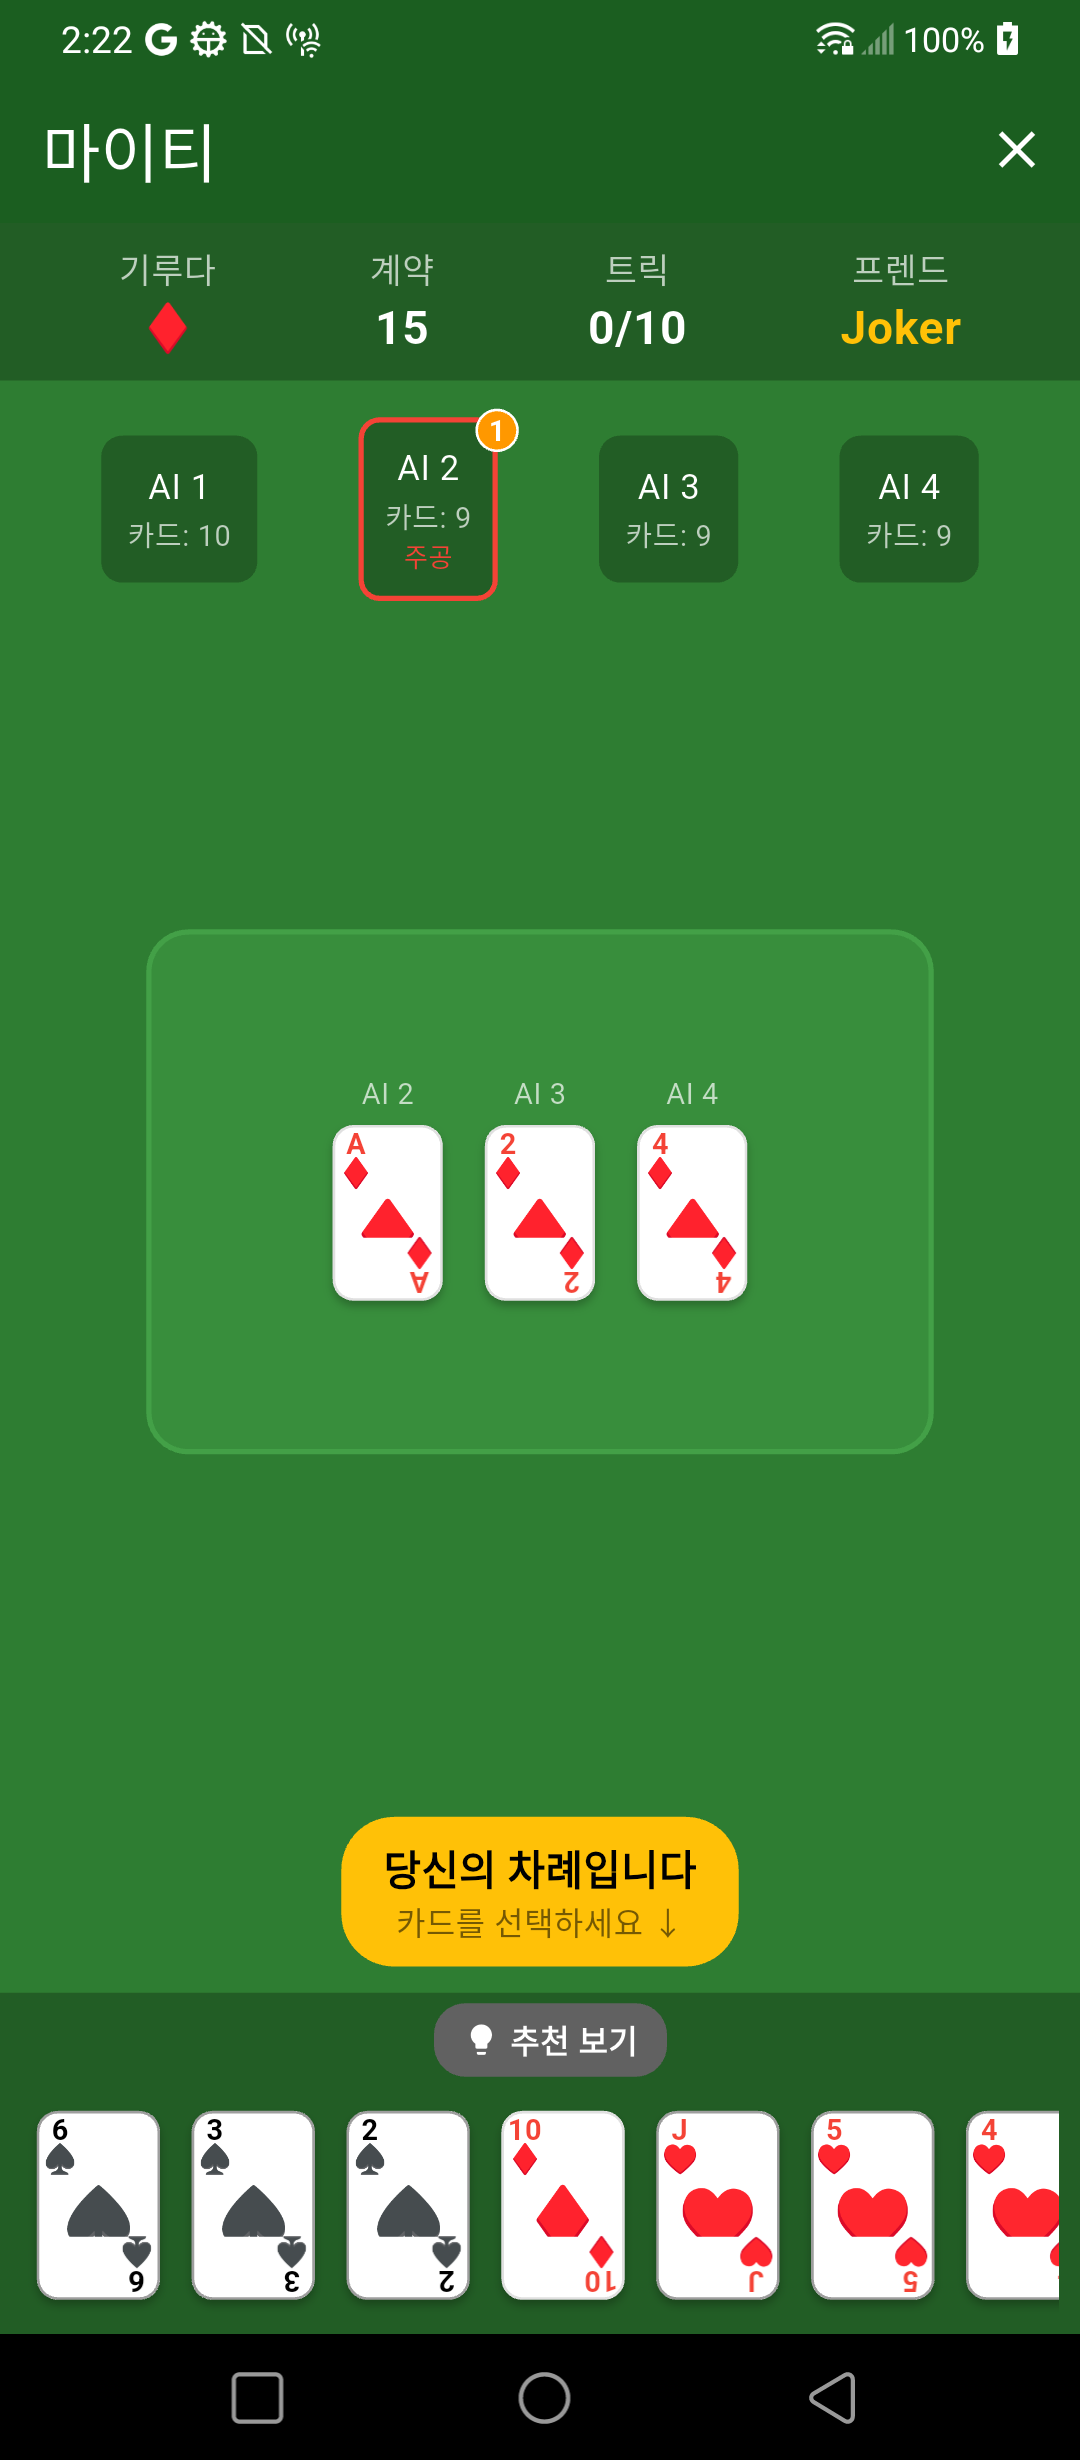
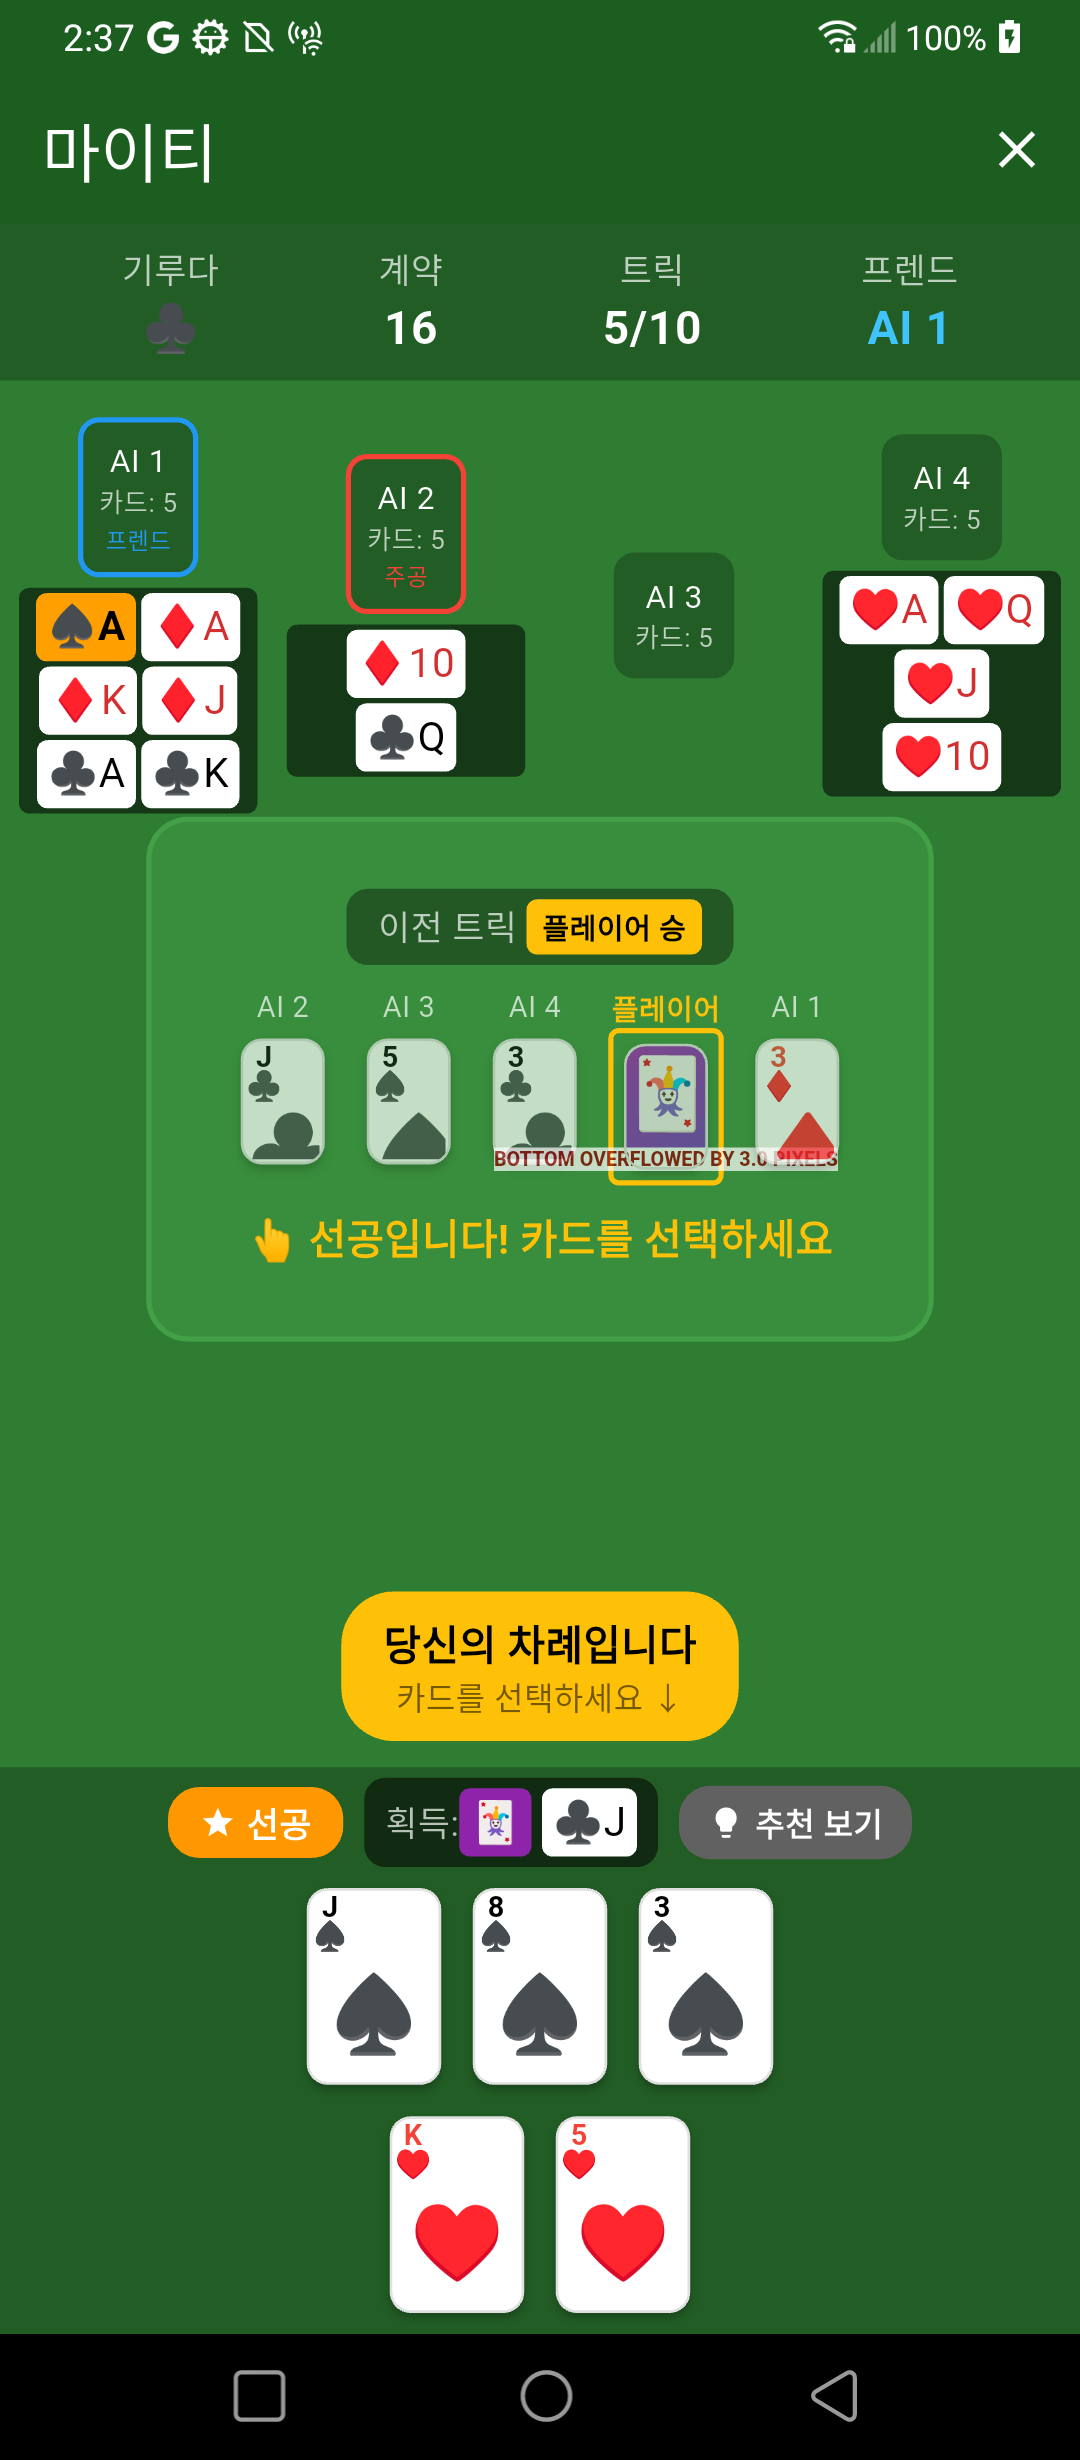
Fix overflow and reduce tiny card size
- Reduce tiny card font size from 14 to 11 for better fit
- Reduce padding on tiny cards (4->3, 2->1)
- Reduce previous trick card size (40x56 -> 36x50)
- Reduce spacing and font sizes in previous trick display
- Fix "BOTTOM OVERFLOWED" error in previous trick area

🤖 Generated with [Claude Code](https://claude.com/claude-code)

diff --git a/lib/screens/game_screen.dart b/lib/screens/game_screen.dart
@@ -1378,12 +1378,12 @@ class _GameScreenState extends State<GameScreen> {
 
     if (card.isJoker) {
       return Container(
-        padding: const EdgeInsets.symmetric(horizontal: 4, vertical: 2),
+        padding: const EdgeInsets.symmetric(horizontal: 3, vertical: 1),
         decoration: BoxDecoration(
           color: Colors.purple[600],
-          borderRadius: BorderRadius.circular(4),
+          borderRadius: BorderRadius.circular(3),
         ),
-        child: const Text('🃏', style: TextStyle(fontSize: 14)),
+        child: const Text('🃏', style: TextStyle(fontSize: 11)),
       );
     }
 
@@ -1411,16 +1411,16 @@ class _GameScreenState extends State<GameScreen> {
     }
 
     return Container(
-      padding: const EdgeInsets.symmetric(horizontal: 4, vertical: 2),
+      padding: const EdgeInsets.symmetric(horizontal: 3, vertical: 1),
       decoration: BoxDecoration(
         color: isMighty ? Colors.amber[700] : Colors.white,
-        borderRadius: BorderRadius.circular(4),
+        borderRadius: BorderRadius.circular(3),
       ),
       child: Text(
         '$suitSymbol$rank',
         style: TextStyle(
           color: isRed ? Colors.red[700] : Colors.black,
-          fontSize: 14,
+          fontSize: 11,
           fontWeight: isMighty ? FontWeight.bold : FontWeight.normal,
         ),
       ),
@@ -1476,7 +1476,7 @@ class _GameScreenState extends State<GameScreen> {
               ),
               // 이전 트릭 카드들
               Wrap(
-                spacing: 8,
+                spacing: 4,
                 children: [
                   for (int i = 0; i < lastTrick.cards.length; i++)
                     Column(
@@ -1488,7 +1488,7 @@ class _GameScreenState extends State<GameScreen> {
                             color: lastTrick.playerOrder[i] == lastTrick.winnerId
                                 ? Colors.amber
                                 : Colors.white70,
-                            fontSize: 10,
+                            fontSize: 9,
                             fontWeight: lastTrick.playerOrder[i] == lastTrick.winnerId
                                 ? FontWeight.bold
                                 : FontWeight.normal,
@@ -1497,16 +1497,16 @@ class _GameScreenState extends State<GameScreen> {
                         Container(
                           decoration: lastTrick.playerOrder[i] == lastTrick.winnerId
                               ? BoxDecoration(
-                                  border: Border.all(color: Colors.amber, width: 2),
-                                  borderRadius: BorderRadius.circular(4),
+                                  border: Border.all(color: Colors.amber, width: 1),
+                                  borderRadius: BorderRadius.circular(3),
                                 )
                               : null,
                           child: Opacity(
                             opacity: 0.7,
                             child: CardWidget(
                               card: lastTrick.cards[i],
-                              width: 40,
-                              height: 56,
+                              width: 36,
+                              height: 50,
                             ),
                           ),
                         ),
@@ -1514,13 +1514,13 @@ class _GameScreenState extends State<GameScreen> {
                     ),
                 ],
               ),
-              const SizedBox(height: 8),
+              const SizedBox(height: 4),
               // 선공 안내
               Text(
                 l10n.leadPlayerSelectCard,
                 style: const TextStyle(
                   color: Colors.amber,
-                  fontSize: 14,
+                  fontSize: 12,
                   fontWeight: FontWeight.bold,
                 ),
               ),
